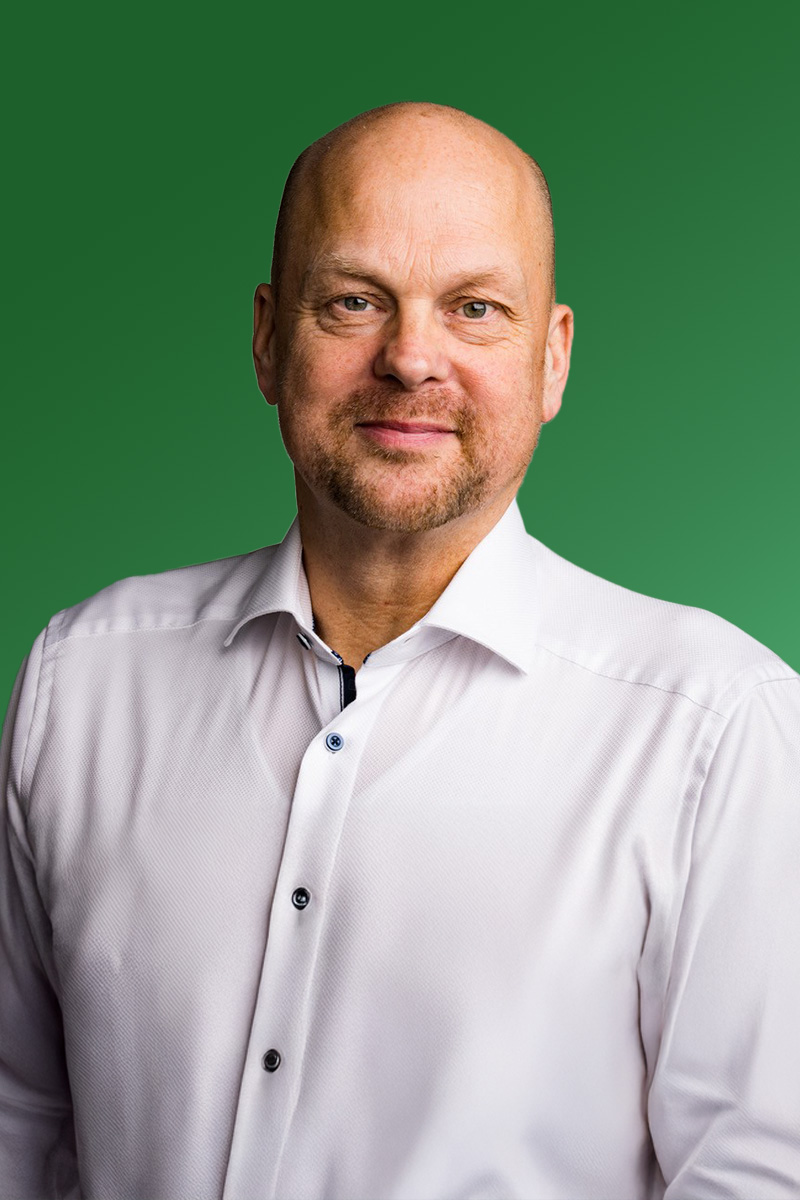
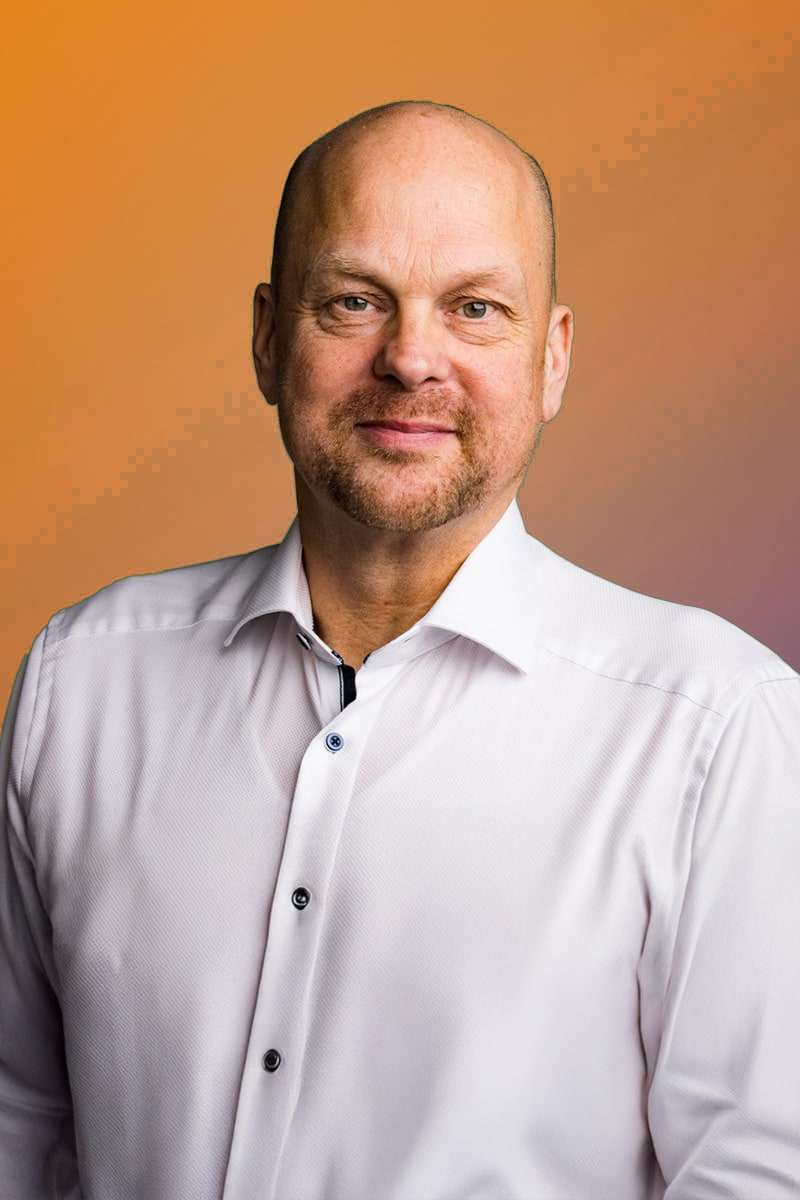
Portretachtergrond naar het merkverloop en het team compleet
De portretfoto's stonden tegen het groen van Act in Move. Dat is de kleur van een
ander merk uit de groep, dus hij hoort hier niet. De achtergrond is vervangen door
het logoverloop: oranje linksboven naar paars rechtsonder.

scripts/portret-achtergrond.mjs doet dat met sharp. Per pixel wordt bepaald hoe
groen hij is ten opzichte van rood en blauw; boven een drempel is het
achtergrond, eronder de persoon, en in de band ertussen loopt de dekking
geleidelijk af. Zonder die band krijg je een uitgeknipte rand rond haar en
schouders. De groenzweem die op de persoon zelf viel is teruggedrukt.

Twee dingen die daarbij misgingen en in het script zijn opgelost: sharp kan niet
schrijven naar het pad waar hij uit leest, en op Windows blijft dat bestand ook
na afloop vergrendeld. Vandaar dat de bron nu eerst volledig in het geheugen
wordt gelezen en het resultaat via een buffer wordt weggeschreven.

Het team was niet compleet: op actinmove.nl staan twaalf mensen, hier acht. De
vier ontbrekende zijn toegevoegd met hun eigen functie en een tekst die op dit
merk is toegesneden — Tineke van Sleen (trainer, ruim 35 jaar in het
dementieveld, wat direct raakt aan onbegrepen gedrag in de ouderenzorg), Claudia
van Mechelen (trainer en trainingsacteur), Eline Mol en Ruben Lusink.

De indeling gaat nu over drie groepen in plaats van twee: trainers en coaches,
trainingsacteurs, en achter de schermen. Youri stond bij de trainers terwijl zijn
[…]

diff --git a/src/content/team/claudia-van-mechelen.md b/src/content/team/claudia-van-mechelen.md
@@ -1,0 +1,17 @@
+---
+naam: Claudia van Mechelen
+rol: Trainer en trainingsacteur
+volgorde: 9
+---
+
+Claudia is trainer én trainingsacteur, en verbindt vanuit die combinatie de
+inhoud van een training direct aan de praktijk. In oefengesprekken en
+realistische praktijksituaties geeft zij deelnemers de ruimte om te ervaren, te
+experimenteren en nieuw gedrag uit te proberen.
+
+Zij zorgt voor een veilige en open leeromgeving waarin deelnemers zich uitgedaagd
+voelen om buiten hun vertrouwde patronen te stappen. Als trainingsacteur brengt
+zij situaties geloofwaardig tot leven; als trainer helpt zij deelnemers om die
+ervaring te vertalen naar concrete inzichten en toepasbare vaardigheden.
+
+"Wat je ervaart, blijft je bij en maakt verandering mogelijk."

diff --git a/src/content/team/tineke-van-sleen.md b/src/content/team/tineke-van-sleen.md
@@ -1,0 +1,17 @@
+---
+naam: Tineke van Sleen
+rol: Trainer, spreker en dagvoorzitter
+volgorde: 10
+---
+
+Tineke is al meer dan 35 jaar actief binnen het dementieveld. Haar werk kenmerkt
+zich door een mensgerichte en toegankelijke benadering, met veel aandacht voor
+communicatie, verbinding en wat er écht toe doet in het contact met mensen met
+dementie.
+
+Die kennis is direct van belang bij agressietraining in de ouderenzorg: onbegrepen
+gedrag bij dementie vraagt een andere reactie dan agressie die uit frustratie of
+berekening voortkomt. Tineke is auteur van het boek *Last van vergetelijkheid:
+communicatie vanuit je hart*.
+
+"In contact blijven, juist wanneer woorden minder vanzelfsprekend worden."

diff --git a/src/content/team/eline-mol.md b/src/content/team/eline-mol.md
@@ -1,0 +1,14 @@
+---
+naam: Eline Mol
+rol: Office en communicatie
+volgorde: 11
+---
+
+Eline houdt de organisatie draaiend: planningen, afspraken en de communicatie
+eromheen. Wie belt of mailt over een training, heeft haar meestal als eerste aan
+de lijn.
+
+Doordat de dagelijkse organisatie klopt, kunnen de trainers en acteurs hun
+aandacht richten op waar het om gaat: de groep die voor hen staat.
+
+"Structuur geeft ruimte om te doen waar je écht het verschil kunt maken."

diff --git a/src/content/team/ruben-lusink.md b/src/content/team/ruben-lusink.md
@@ -1,0 +1,11 @@
+---
+naam: Ruben Lusink
+rol: Adviseur proces en innovatie
+volgorde: 12
+---
+
+Ruben richt zich op het slimmer inrichten van werkprocessen en de digitale
+omgeving. Met een achtergrond in Toegepaste Psychologie kijkt hij daarbij eerst
+naar de mensen die met een proces werken, en pas daarna naar het systeem.
+
+"Slimmer werken begint met de vraag: waarom doen we dit eigenlijk zo?"
